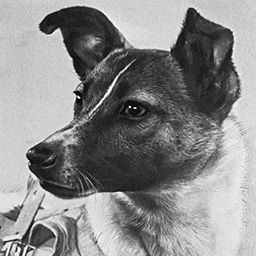
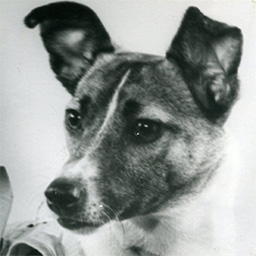
Replace Laika's photo with a CC BY 4.0 copy and start a credits file
The memorial photo is now a Wikimedia Commons image under CC BY 4.0,
converted like before. assets/CREDITS.md credits third-party assets
(the fonts and this photo); the photo's author and file page are still
to be filled in from Commons.

Claude-Session: https://claude.ai/code/session_01Km2cKzL77ncDxBFF3Uxrqs

diff --git a/assets-raw/memorial/SOURCES.md b/assets-raw/memorial/SOURCES.md
@@ -1,14 +1,17 @@
 # Memorial photos: sources
 
 Real historical photos used on the Museum's memorial plaques (converted to
-`assets/ui/portraits/` by `assets-raw/portraits/make_portrait_assets.py`).
+`assets/ui/portraits/` by `assets-raw/portraits/make_portrait_assets.py`). Every photo here needs a
+licence that allows a public repo; the credits players see are in `assets/CREDITS.md`.
 
 ## laika.jpg
 
-- **What:** Laika, the dog flown on Sputnik 2 (November 1957), in her flight harness.
-- **Source:** a 1957 Soviet press photo, credited to **TASS** (the Soviet news agency) on the
-  website the user found it on (2026-10-05). Cropped to a square by the user.
-- **Licence: not established.** Commercial agencies (AFP, Heritage Images) still sell licences for
-  this photo, so it shouldn't be assumed to be public domain. Fine while the repo is private.
-  **Before the repo goes public:** find a copy with a clear free licence (Wikimedia Commons lists
-  each file's licence), or replace it with original art.
+- **What:** Laika, the dog flown on Sputnik 2 (November 1957).
+- **Source:** Wikimedia Commons (2026-10-05), cropped to a square by the user. It replaces an
+  earlier TASS press photo whose licence wasn't established.
+- **Licence:** Creative Commons Attribution 4.0 (CC BY 4.0,
+  https://creativecommons.org/licenses/by/4.0/). Allows any use, including in a public repo,
+  provided the author is credited, the licence is linked, and changes are noted.
+- **Changes made:** cropped square, converted to greyscale, resized to 192x192.
+- **Still to fill in:** the Commons file page URL and the author exactly as that page names them.
+  Copy both here and into `assets/CREDITS.md`.

diff --git a/design.md b/design.md
@@ -6370,9 +6370,10 @@ here.
     - **Laika's photo:** a 1957 press photo the user supplied, in `assets-raw/memorial/` and
       converted by `make_portrait_assets.py` (192 px, cropped by `assets-raw/memorial/crops.json`)
       to `assets/ui/portraits/laika.jpg`. The user cropped the photo square, so it has no entry in
-      `crops.json`. The source is a TASS press photo, recorded in `assets-raw/memorial/SOURCES.md`.
-      **Open:** its licence isn't established (agencies still sell it), so find a freely licensed
-      copy or replace it before the repo goes public.
+      `crops.json`. It was first a TASS press photo whose licence wasn't clear. It was replaced the same day with a
+      Wikimedia Commons photo under CC BY 4.0, recorded in `assets-raw/memorial/SOURCES.md`, and
+      credited in `assets/CREDITS.md`, the new credits file for third-party assets. **Open:** the
+      author's name and the file page URL still need to be filled in there.
     - **Not done, possible follow-up:** a turn report line when a passenger is lost would need a new
       `ResolutionEvent` subtype. Korabl-Sputnik 2's dogs aren't covered: Belka and Strelka survived,
       and a failed flight would need the names of the dogs really lost, which hasn't been decided.

diff --git a/assets/CREDITS.md b/assets/CREDITS.md
@@ -1,0 +1,15 @@
+# Credits for third-party assets
+
+Assets in this folder that weren't made for Launch Window, with the credit their licence asks for.
+
+## Fonts
+
+Archivo and Work Sans, under the SIL Open Font License; see `fonts/OFL-Archivo.txt` and
+`fonts/OFL-WorkSans.txt`.
+
+## Photos
+
+- `ui/portraits/laika.jpg`: Laika, the dog flown on Sputnik 2 (1957). Author: *(to fill in from the
+  Wikimedia Commons file page)*. Source: Wikimedia Commons *(file page URL to fill in)*. Licensed
+  under CC BY 4.0, https://creativecommons.org/licenses/by/4.0/. Cropped, converted to greyscale and
+  resized.
